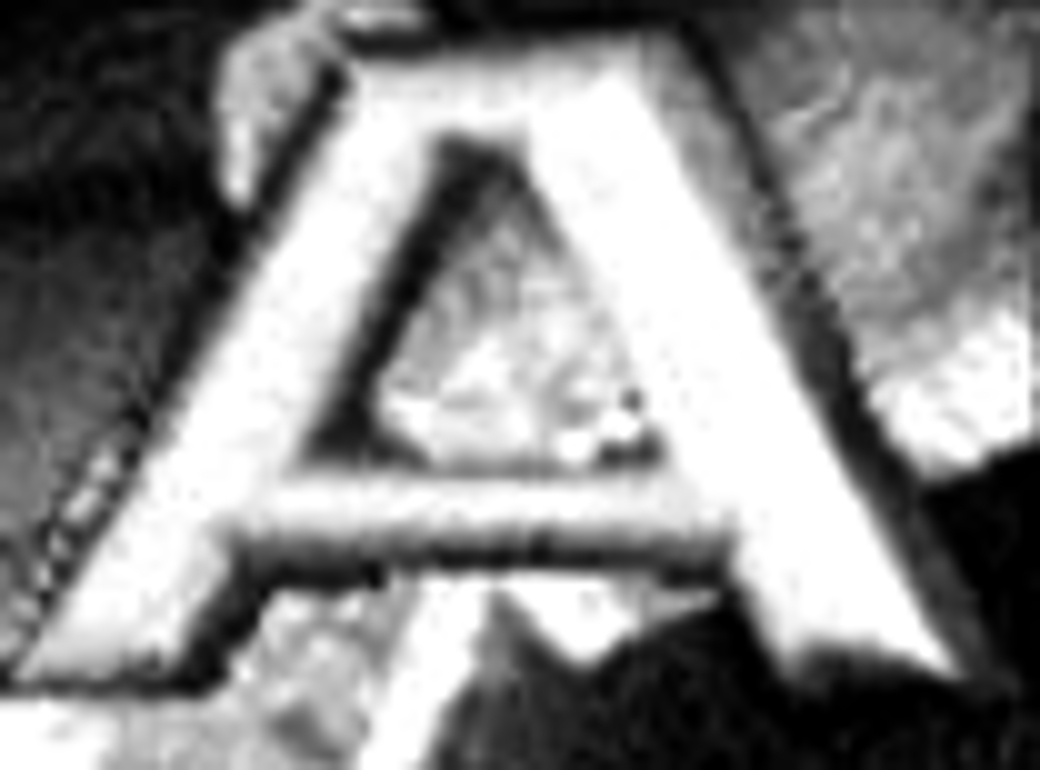
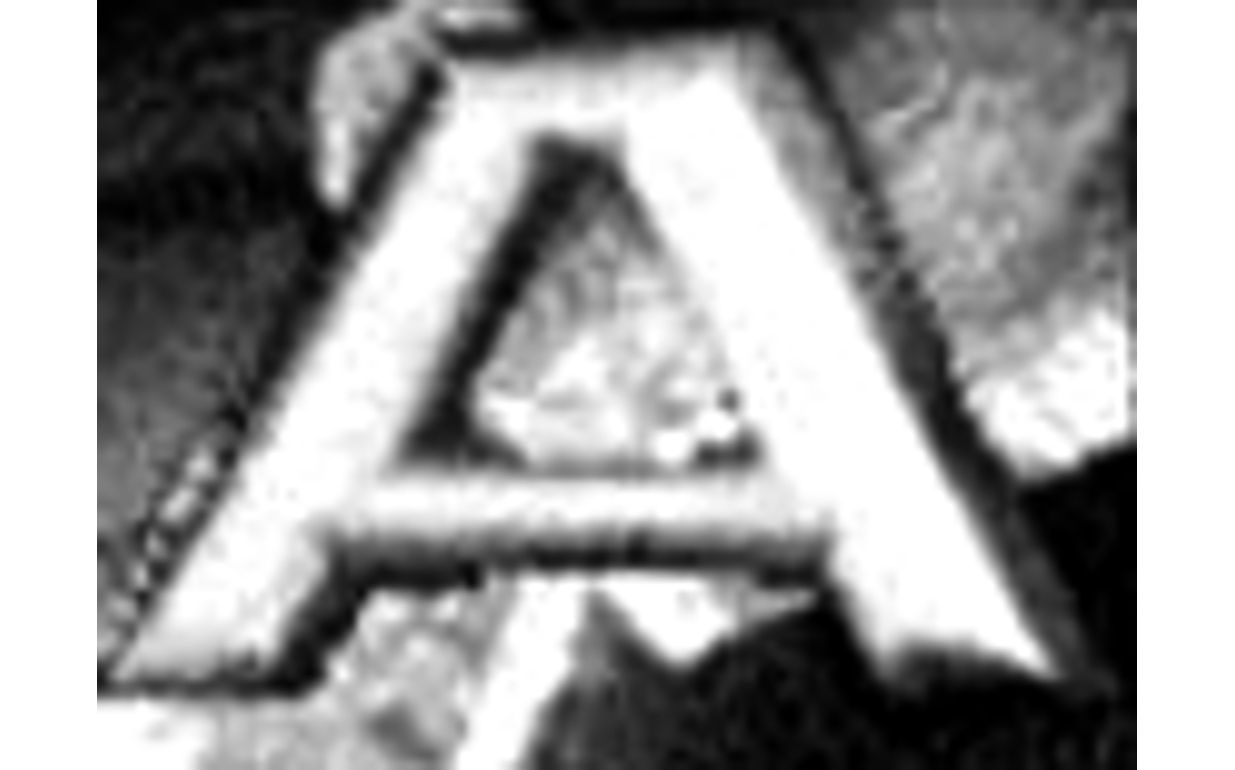
add boarder to test image spit out optimized g code, delete all redundancy.

diff --git a/imagetolaser.c b/imagetolaser.c
@@ -8,7 +8,7 @@
 static int verbose_flag = 0;	// Set by verbose flag.
 
 double tool_radius = 0.1;	// mm. radius of laser.
-double stepover = 0.2;
+double stepover = 0.5;
 double max_cut = 255;		// mm. Max plunge depth.
 double zscale = 255;              // mm. Depth of image.
 double max_error = 0.001;	// mm
@@ -50,7 +50,33 @@ projection_error(double x, double y, double z)
 void
 do_route_to(double x, double y, double z)
 {
-  printf("G1 X%.2f Y%.2f S%.0f\n", x, y, z*-1);
+  static double last_x, last_x_print; 
+  static double last_y; 
+  static double last_z;
+  
+  if((int)last_z == (int)z && last_y == y) 
+  {
+
+  }
+  else
+  {
+	  if(last_x_print != last_x){
+	  printf("G1");
+	  printf("X%.2f", last_x);
+	  printf("S%.0f",last_z*-1);
+	  printf("\n");
+	  last_x_print = last_x;
+	}
+  }
+  if((last_x != x || last_y != y) && !((int) last_z == (int)z && last_y == y)) printf("G1");
+  if(last_x != x && !((int) last_z == (int)z && last_y == y)) {printf("X%.2f", x); last_x_print = x;}
+  if(last_y != y) printf("Y%.2f", y);
+  if((int)last_z != (int)z) printf("S%.0f",z*-1);
+  if(!((int) last_z == (int)z && last_y == y)) printf("\n");
+  
+  last_x = x;
+  last_y = y;
+  last_z = z;
   mx = x;
   my = y;
   mz = z;
@@ -96,7 +122,7 @@ void
 move_to(double x, double y, double z)
 {
   finish();
-  printf("G0 X%.2f Y%.2f\nM3 S0\nF1000\n", x, y);
+  printf("G0 X%.2f Y%.2f\nM3 S0\nF400\n", x, y);
   mx = x;
   my = y;
   mz = z;
